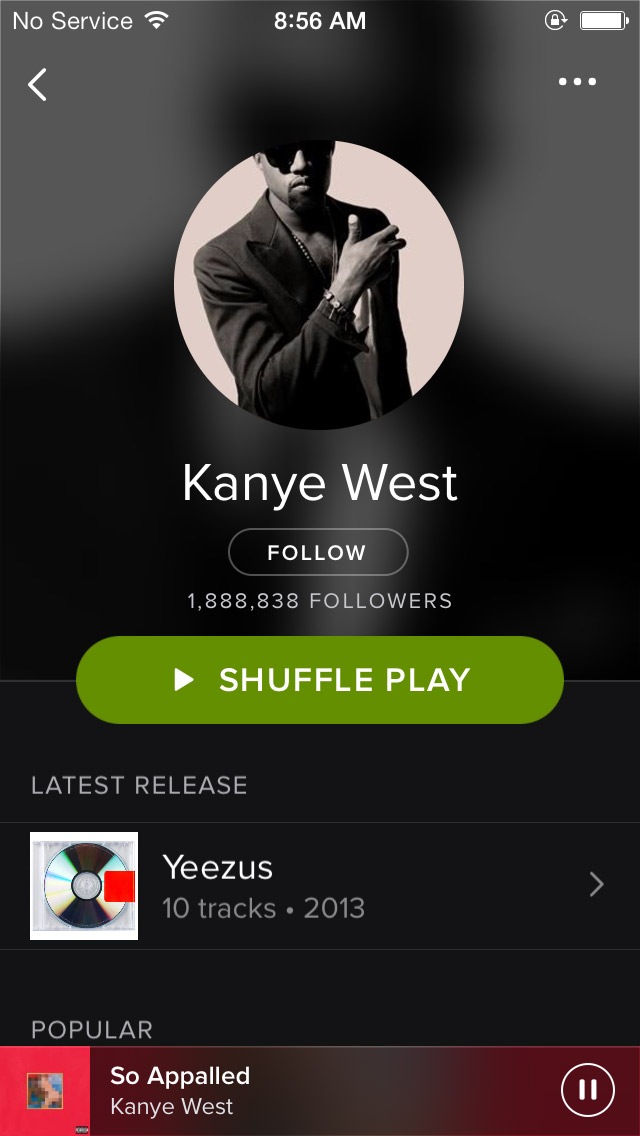
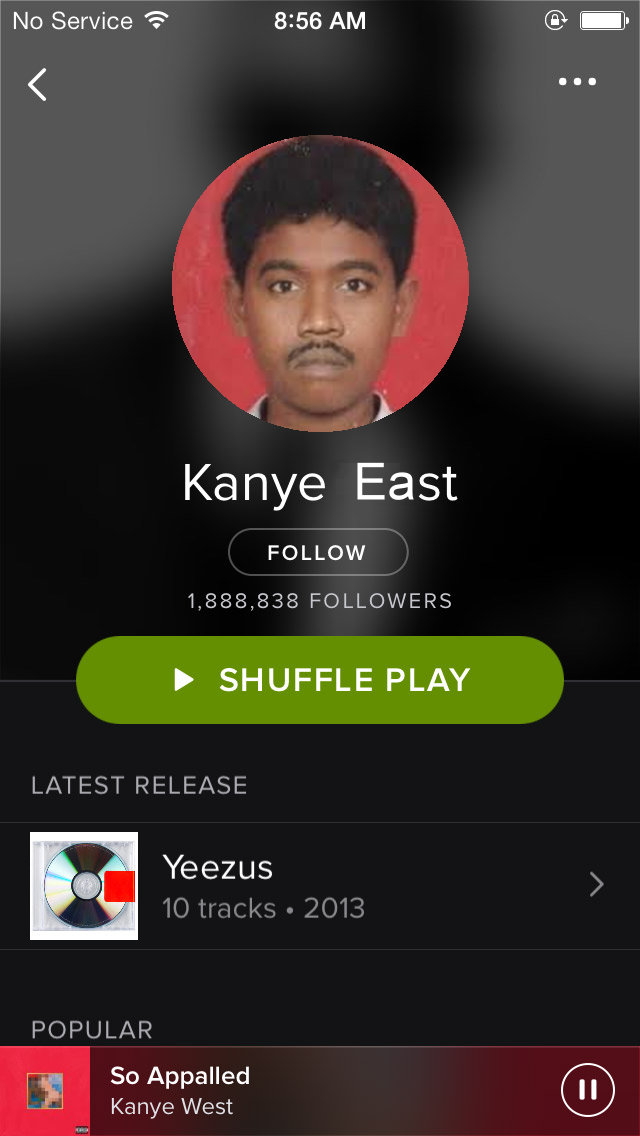
Done
Kayne East

Changed region(s): [[0.25, 0.0924, 0.75, 0.4621]]

diff --git a/styles/style.css b/styles/style.css
@@ -7,81 +7,189 @@ White: #FFF
 
 */
 
-div img{
-    width: 150px;
+body{
+    /* padding-top: 20px; */
+    width: 70%;
+    margin: auto;
+    font-family: Arial, Helvetica, sans-serif;
+    overflow: auto;
+    /* align-content: center;
+    align-items: center;
+    align-self: center;
+    font-family: Arial, Helvetica, sans-serif; */
+}
+
+.menu{
+    justify-items: right;
+    float: right;
+    padding: 10px;
+    padding-bottom: 0px;
+    align-items: center;
+    box-sizing: border-box;
     display: flex;
-    
+    margin: 0 auto;
+}
+.menu li{
+    height: 50px;
+    display: flex;
+    align-items: center;
+    float: right;
+    padding-left: 20px;
+}
+
+.headimg{
+    height: 50px;
+    padding: 10px;
 }
 
 .head{
-    
-    justify-content: center;
-    display: inline;
-}
-
-#menu {
-    padding: 0;
-    }
-
-#menu li{
-    font-family: Arial, Helvetica, sans-serif;
-    text-align: right;
-    display: inline;
-}
-
-.stmenu{
-    font-style: normal;
-}
-
-body{
-    padding-top: 20px;
-    width: 70%;
-    align-content: center;
     align-items: center;
-    align-self: center;
-    margin: auto;
-    font-family: Arial, Helvetica, sans-serif;
+    width: 80%;
+    height: 100px;
+    padding-top: 10px;
+    margin: 0 auto;
 }
-header{
-    height: 50vh;
-    background-image: url("../images/apple-pie.jpg");
+
+.splash{
+    width: 80%;
+    height: 70vh;
+    color: white;
+    font-size: 10vh;
+    background-image: url("../images/landing.jpg");
     background-size: cover;
-    background-position: center;
+    background-position: center fixed;
+    /* display: fixed; */
     text-align: center;
-    align-items: center;
-    justify-content: center;
-    /* justify-items: center; */
-    display: flex; 
+    
+    margin: 0 auto;
 }
 h1{
-    font-family: Arial, Helvetica, sans-serif;
+    align-items: center;
+    padding-top: 25%;
+    padding-bottom: 2%;
+    font-size: 7vh;
+}
+h2{
+    font-weight: 50;
+    align-items: center;
+    font-size: 2.5vh;
+}
+
+.midbar{
+    width: 30%;
+    padding: 20px;
+    align-items: center;
     text-align: center;
-    font-size: 10vh;
-    font-weight: 100;
-    color: white;
+    margin: 0 auto;
+}
+
+h3{
+    font-size: 2.5vh;
+    margin: auto;
+}
+
+.b30{
+    width: 60%;
+    color: #00B172;
+}
+
+.div3{
+    width: 30%;
+    height: 30vh;
+    float: left;
+    /* border: 1px solid; */
+}
+
+.div3mid{
+    width: 30%;
+    height: 30vh;
+    float: left;
+    /* border: 1px solid; */
+    margin-left: 4.5%;
+    margin-right: 4.5%;
+}
+
+.bloqueicons{
+    text-align: center;
+    color: #00B172;
+    width: 80%;
+    margin: 0 auto;
+    align-content: center;
+    /* float: left; */
+}
+
+.bloque{
+    width: 80%;
+    margin: 0 auto;
+
+    /* float: none; */
+}
+
+.icons{
+    margin: auto;
+    /* border: 1px solid; */
+    display: flex;
+    height: 100px;
+    padding: 10px;
 }
 
 h4{
-    font-size: large;
-    font-family:'Arial Narrow Bold', sans-serif;
-}
-
-.ochentero{
-    padding: 10px;
-    align-self: center;
-    align-content: center;
-    width: 80%;
-    align-items: center;
-    justify-self: center;
-    margin: auto;
-}
-.instruc{
-    text-align: center;
-    align-self: center;
-    align-content: center;
-    width: 30%;
-    align-items: center;
-    justify-self: center;
     margin: auto;
     display: flex;
+    padding: 20px;
+    width: 50%;
+    color: rgb(100, 100, 100);
+}
+
+.div50
+{
+    color: white;
+    width: 50%;
+    height: 60vh;
+    float: left;
+    margin: auto;
+    margin-bottom: 5%;
+    background-color: #00B172;
+}
+
+.appimg{
+    margin: auto;
+    /* border: 1px solid; */
+    display: flex;
+    width: 50%;
+    padding: 10%;
+}
+
+.appsep{
+    width: 60%;
+    border: 3px solid white;
+    border-radius: 3px;
+}
+
+.auto60{
+    padding-top: 6%;
+    width: 60%;
+    margin: auto;
+}
+
+h5{
+    font-size: 16px;
+}
+
+.logobox{
+    align-self: center;
+    width: 6%;
+    overflow: visible;
+    float: center;
+    position: absolute;
+    z-index: 1000;
+    display: flex;
+    left: 47%;
+    top: 140%;
+}
+
+.logo{
+    margin: 0 auto;
+    width: 100%;
+    background-color: transparent;
 }

diff --git a/index.html b/index.html
@@ -11,59 +11,67 @@
   </head>
   <body>
     <div>
-      <div.head>
-        <div> <img src="images/spotify-logo.png" alt="Spotify Logo"> 
-        <ul id=”menu”>
-          <li><a href=”#”>Premium</a></li>
-          <li><a href=”#”>Discover</a></li>
-          <li><a href=”#”>Help</a></li>
-          <li><a href=”#”>Download</a></li>
-        </ul>
+      <div class="head">
+        <img class="headimg" src="images/spotify-logo.png" alt="Spotify Logo" > 
+        <nav class="menu">
+          <ul>
+            <li>Download</li>
+            <li>Help</li>
+            <li>Discover</li>
+            <li>Premium</li>
+          </ul>
+        </nav>
       </div>
-      <div>
-        Music for everyone.
-        Spotify is now free on mobile, tablet and computer. Listen to the
-        right music, wherever you are.
+      
+      <div class="splash">
+        <h1>Music for everyone.</h1>
+        <h2>Spotify is now free on mobile, tablet and computer.</h2>
+        <h2>Listen to the right music, wherever you are.</h2>
+      </div>
+    <div class="midbar"> 
+      <h3>What’s on Spotify?</h3>
+      <hr class="b30">
+    </div>
+    <div class="bloqueicons">
+      <div class="div3">
+        <img class="icons" src="images/music-icon.png" alt="Music Icon">
+        <h3>Millions of Songs</h3>
+        <h4>There are millions of songs on Spotify</h4> 
+      </div>
+      <div class="div3mid">
+        <img class="icons" src="images/high-quality-icon.png" alt="High Quality">
+        <h3>8K Music</h3>
+        <h4>Listen to music as if you were listening live</h4> 
+      </div>
+      <div class="div3">
+        <img class="icons" src="images/devices-icon.png" alt="Devices Icon">
+        <h3>Stream Everywhere</h3>
+        <h4>Stream music on your smartphone, tablet or computer</h4>
       </div>
     </div>
-    <div>
-      <div>
-        What’s on Spotify?
+    <div class="bloque">
+      <div class="div50">
+        <h3 class="auto60">It’s as yeezy as Kanye East.</h3>
+        <hr class="appsep">
+        <h3 class="auto60">Search</h3>
+        <h5 class="auto60">Know what you want to listen to? Just search and hit play.</h5>
+        
+        <h3 class="auto60">Browse</h3>
+        <h5 class="auto60">Check out the latest charts, brand new releases and great playlists for right now.</h5>
+        
+        <h3 class="auto60">Discover</h3>
+        <h5 class="auto60">Enjoy new music every Monday with your own personal playlist. Or sit back and enjoy Radio.</h5>
+
+        
       </div>
-      <div>
-        Millions of Songs
-        There are millions of songs on Spotify 
+      
+      <div class="div50">
+        <img class="appimg" src="images/spotify-app.jpg" alt="Spotify App">
       </div>
-      <div>
-        HD Music
-        Listen to music as if you were listening live 
-      </div>
-      <div>
-        Stream Everywhere
-        Stream music on your smartphone, tablet or computer
-      </div>
+      
     </div>
-    <div>
-      <div>
-        It’s as yeezy as Kanye West. 
-    
-        Search
-        Know what you want to listen to? Just search and hit play. 
-        
-        Browse
-        Check out the
-        latest charts, brand new releases and great playlists for right now. 
-        
-        Discover
-        Enjoy new music every Monday with your
-        own personal playlist. Or sit back and enjoy Radio.
-      </div>
-      <div>
-
-      </div>
-      <div>
-
-      </div>
+    <div class="logobox">
+      <img class="logo" src="images/spotify-icon-white.png" alt="Icon">
     </div>
   </body>
 </html>
